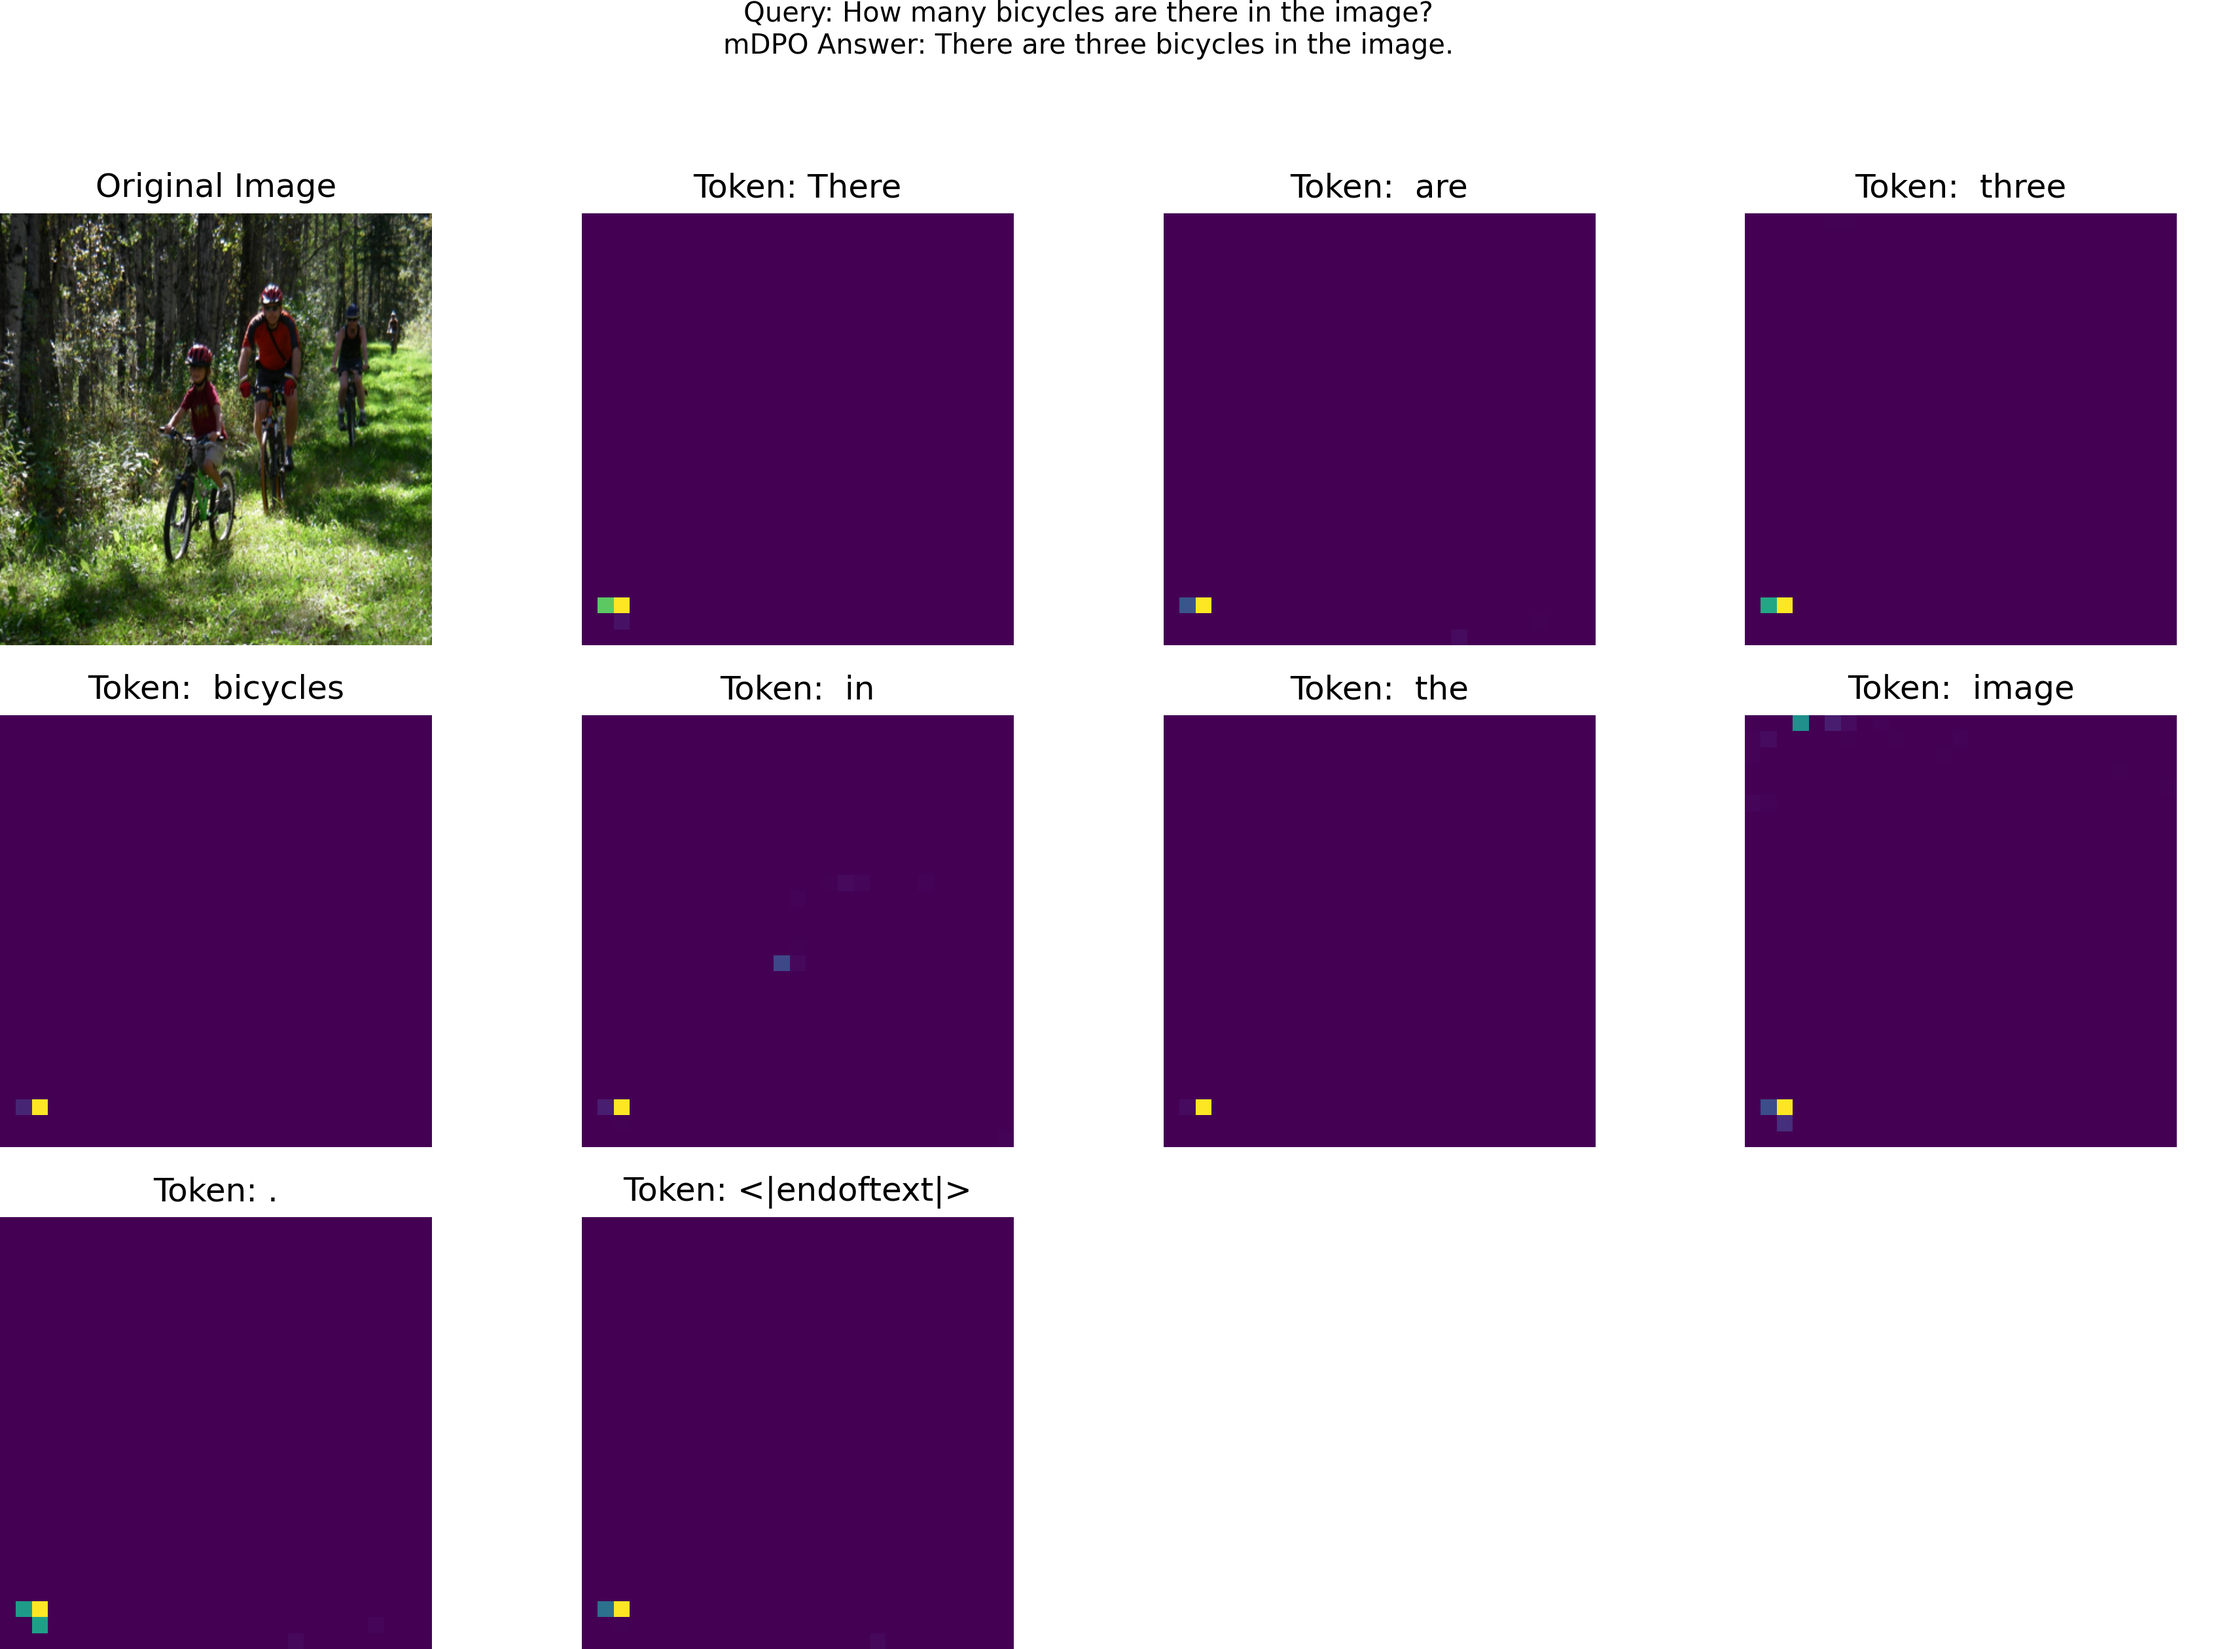
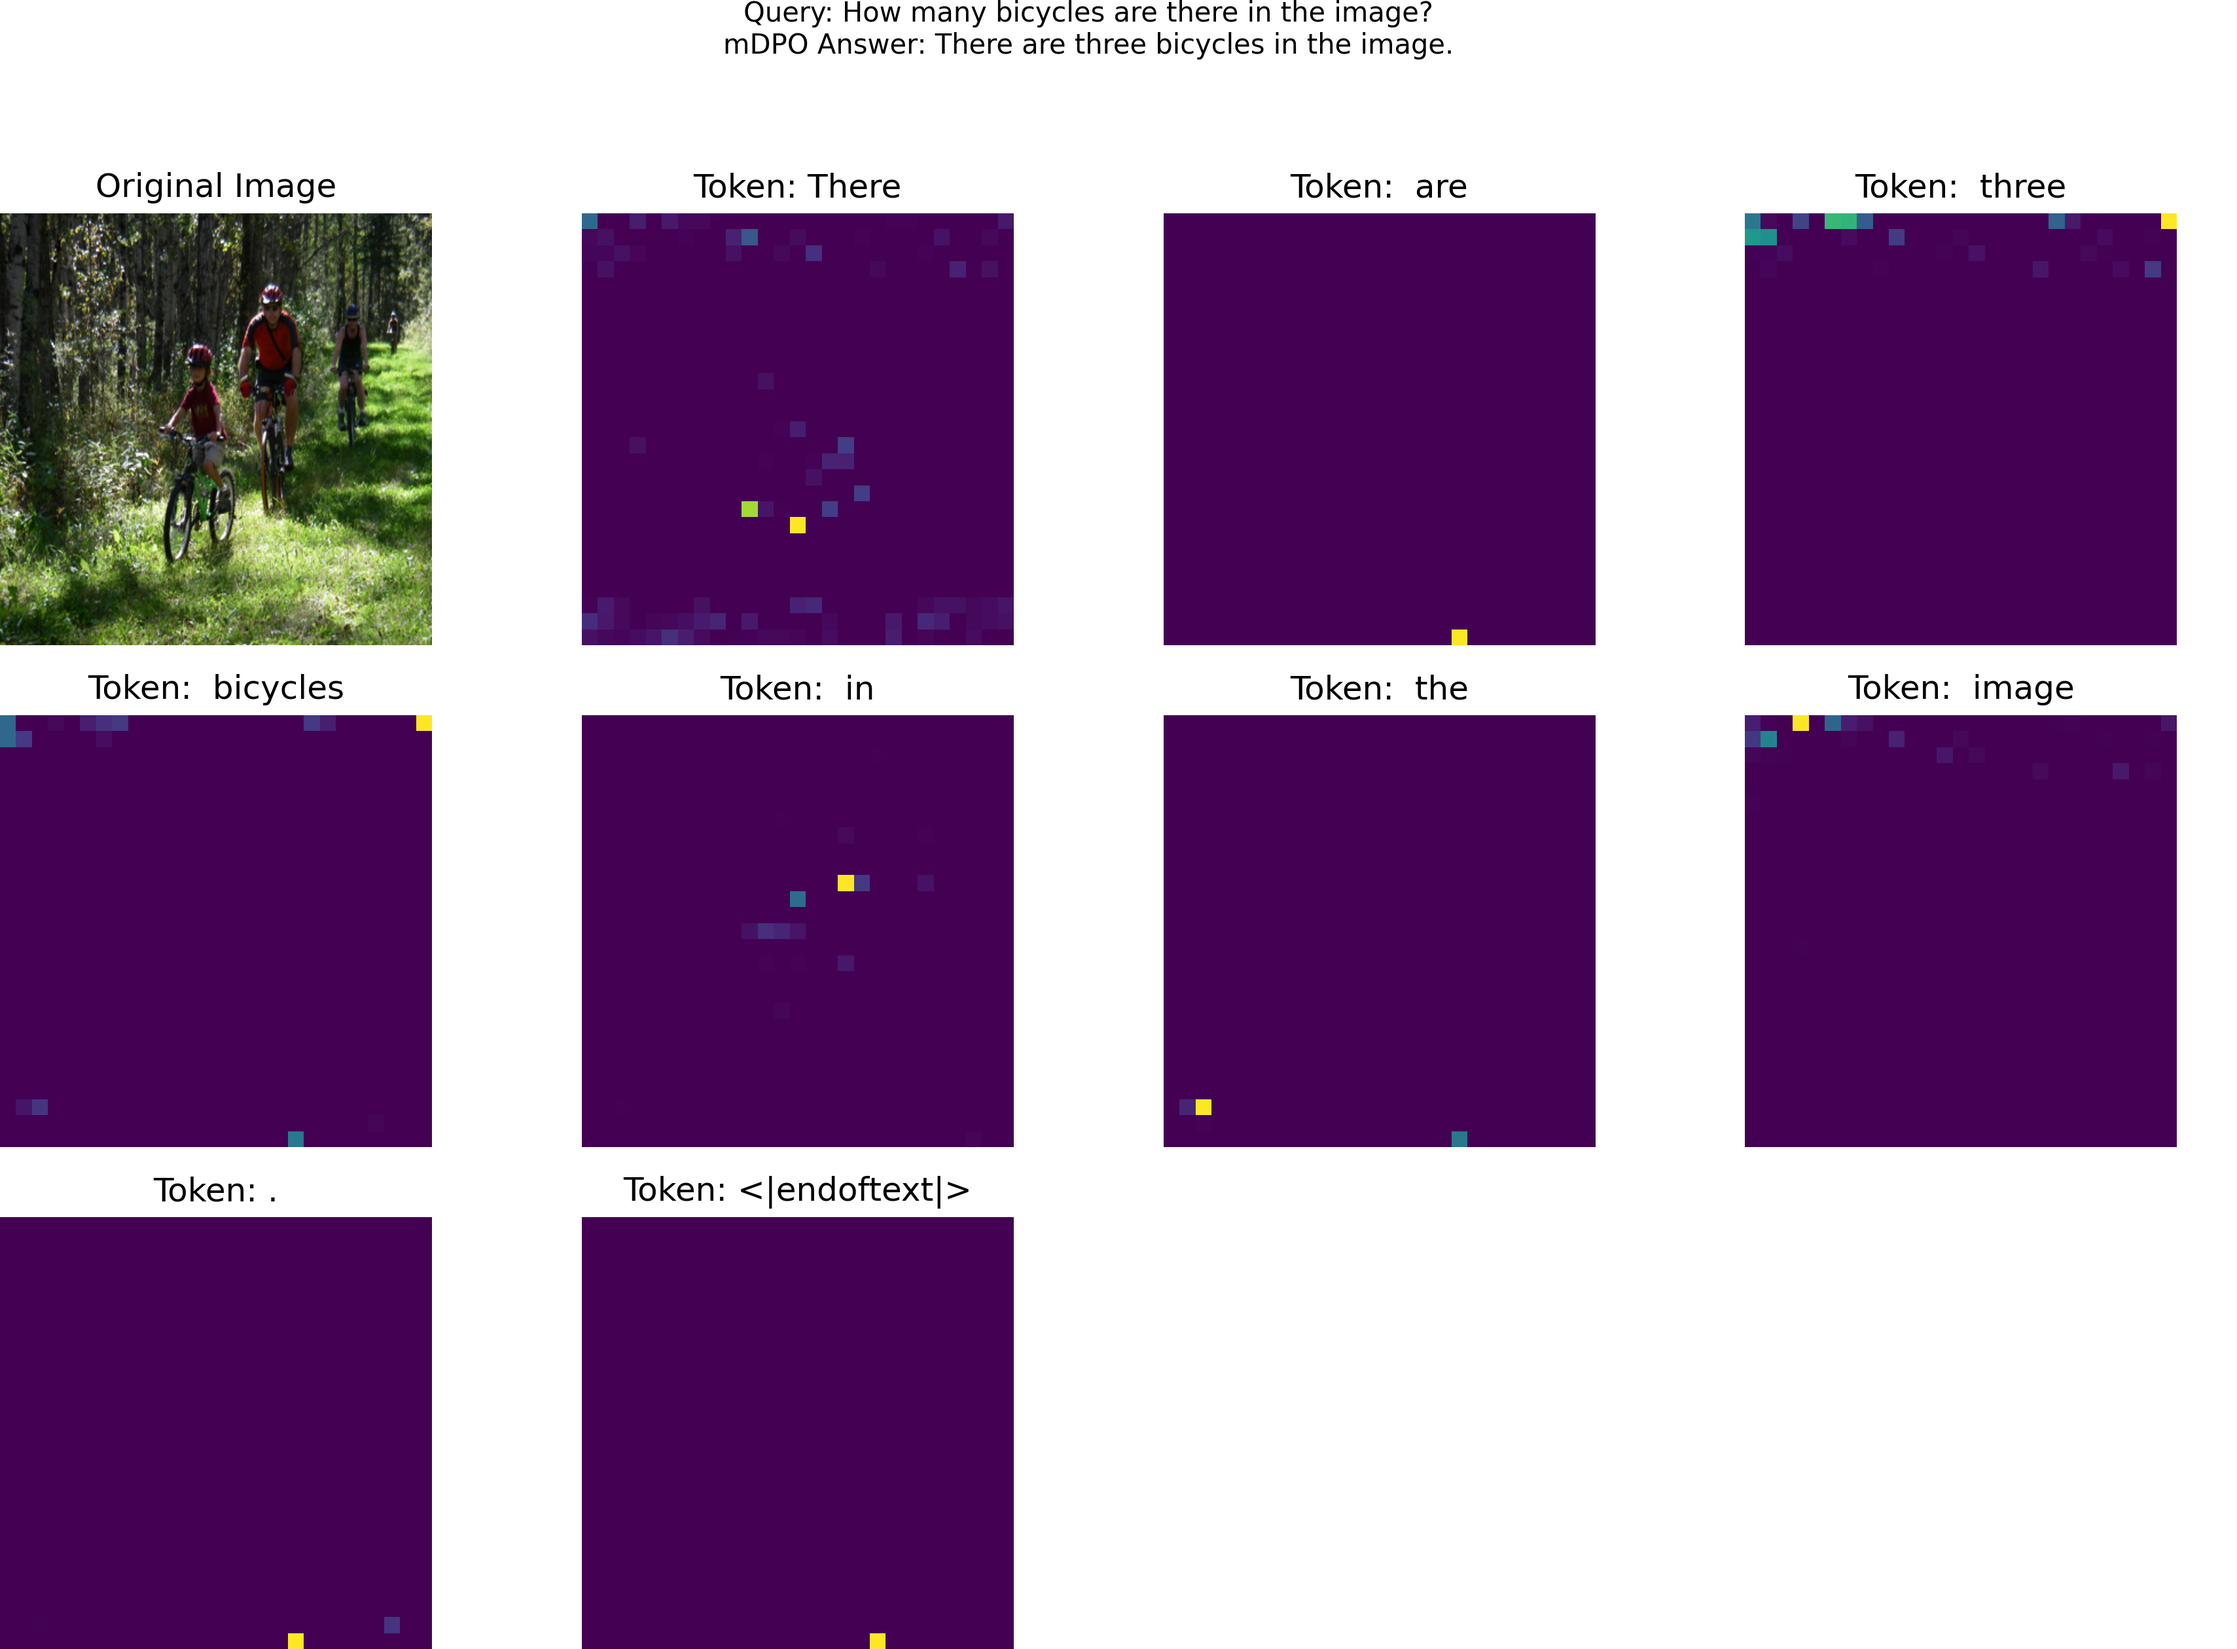
Calculate Relative Attention Maps for all answer tokens

diff --git a/mDPO/bunny/sam.py b/mDPO/bunny/sam.py
@@ -302,6 +302,48 @@ def generate_response(question, path, tokenizer, model):
 
     return response
 
+# function to calculate the generic attention map for a generic query
+def generic_attention_map(answer, path, tokenizer, model):
+    # generic query
+    generic_query = "Write a general description of the image"
+
+    # prompt text with <image> token
+    prompt = f"A chat between a curious user and an artificial intelligence assistant. The assistant gives helpful, detailed, and polite answers to the user's questions. USER: <image>\n{generic_query} ASSISTANT:"
+
+    # get the inputs for the model
+    data = prepare_inputs(prompt, answer, path, tokenizer, model)
+
+    # get the model outputs
+    outputs = model(
+        input_ids=torch.tensor(data["prompt_input_ids"], dtype=torch.long, device=device).unsqueeze(0),  # add batch dimension
+        attention_mask=torch.tensor(data["prompt_attention_mask"], dtype=torch.long, device=device).unsqueeze(0),
+        images=data["image"].to(device),
+        labels=None,
+        use_cache=False,
+        output_attentions=True,
+        output_hidden_states=False,
+        return_dict=True
+    )
+
+    # get the attention scores from the last layer
+    att_scores = outputs.attentions[-1].squeeze() # (heads, 781, 781)
+
+    assert data["prompt_input_ids"].index(-200)==data["response_input_ids"].index(-200)
+
+    # index position where the first image token is located
+    image_token_pos = data["prompt_input_ids"].index(-200)
+
+    # extract attention scores when predicting the first answer token using the lasp prompt token
+    ans_img_attn_scores = att_scores[:, -1, image_token_pos:image_token_pos+729] # (heads, 729)
+
+    # average over attention heads
+    avg_attn = ans_img_attn_scores.mean(dim=0)  # (729,)
+
+    # reshape to 27 x 27 (no. of patches) to get the spatial attention map
+    spatial_attn_map = avg_attn.reshape(27, 27).cpu().detach().numpy()
+
+    return spatial_attn_map
+
 # function to calculate the spatial attention map for each answer token
 def spatial_attention_map(question, answer, path, tokenizer, model):
     # list to store the spatial attention maps
@@ -315,9 +357,9 @@ def spatial_attention_map(question, answer, path, tokenizer, model):
 
     # get the model outputs
     outputs = model(
-        input_ids=torch.tensor(data["response_input_ids"], dtype=torch.long).unsqueeze(0),  # add batch dimension
-        attention_mask=torch.tensor(data["response_attention_mask"], dtype=torch.long).unsqueeze(0),
-        images=data["image"],
+        input_ids=torch.tensor(data["response_input_ids"], dtype=torch.long, device=device).unsqueeze(0),  # add batch dimension
+        attention_mask=torch.tensor(data["response_attention_mask"], dtype=torch.long, device=device).unsqueeze(0),
+        images=data["image"].to(device),
         labels=None,
         use_cache=False,
         output_attentions=True,
@@ -343,8 +385,8 @@ def spatial_attention_map(question, answer, path, tokenizer, model):
         # average over attention heads
         avg_attn = ans_img_attn_scores.mean(dim=0)  # (729,)
 
-        # normalize values
-        avg_attn = avg_attn / avg_attn.sum()
+        # # normalize values
+        # avg_attn = avg_attn / avg_attn.sum()
 
         # reshape to 27 x 27 (no. of patches) to get the spatial attention map
         spatial_attn_map = avg_attn.reshape(27, 27).cpu().detach().numpy()
@@ -365,8 +407,11 @@ orig_image_cropped = orig_image_resized.crop(crop_box)
 # generate mdpo's response
 mdpo_response = generate_response(query, image_path, tokenizer, mdpo_model)
 
-# generate the spatial attention map of mdpo 
+# generate spatial attention maps of mdpo for every answer token
 mdpo_spt_attn_maps = spatial_attention_map(query, mdpo_response, image_path, tokenizer, mdpo_model)
+
+# generate generic attention map using the generic query
+mdpo_gen_attn_map = generic_attention_map(mdpo_response, image_path, tokenizer, mdpo_model)
 
 cols = 4
 rows = (len(mdpo_spt_attn_maps)+cols) // cols
@@ -380,12 +425,23 @@ axes[0].imshow(orig_image_cropped)
 axes[0].set_title("Original Image")
 axes[0].axis('off')
 
-# plot the original image
+# plot the relative attention maps
 for i in range(len(mdpo_spt_attn_maps)):
-    axes[i+1].imshow(mdpo_spt_attn_maps[i][0], cmap='viridis')
+    # calculate the relative attention map
+    rel_attn_map = np.zeros_like(mdpo_spt_attn_maps[i][0])
+    # divide the actual attention map by generic attention map
+    np.divide(
+        mdpo_spt_attn_maps[i][0],
+        mdpo_gen_attn_map,
+        out=rel_attn_map,
+        where=(mdpo_gen_attn_map > 1e-10)
+    )
+
+    axes[i+1].imshow(rel_attn_map, cmap='viridis')
     axes[i+1].set_title(f"Token: {mdpo_spt_attn_maps[i][1]}")
     axes[i+1].axis('off')
 
+# turn off remaining plots
 for i in range(len(mdpo_spt_attn_maps)+1, len(axes)):
     axes[i].axis('off')
 
